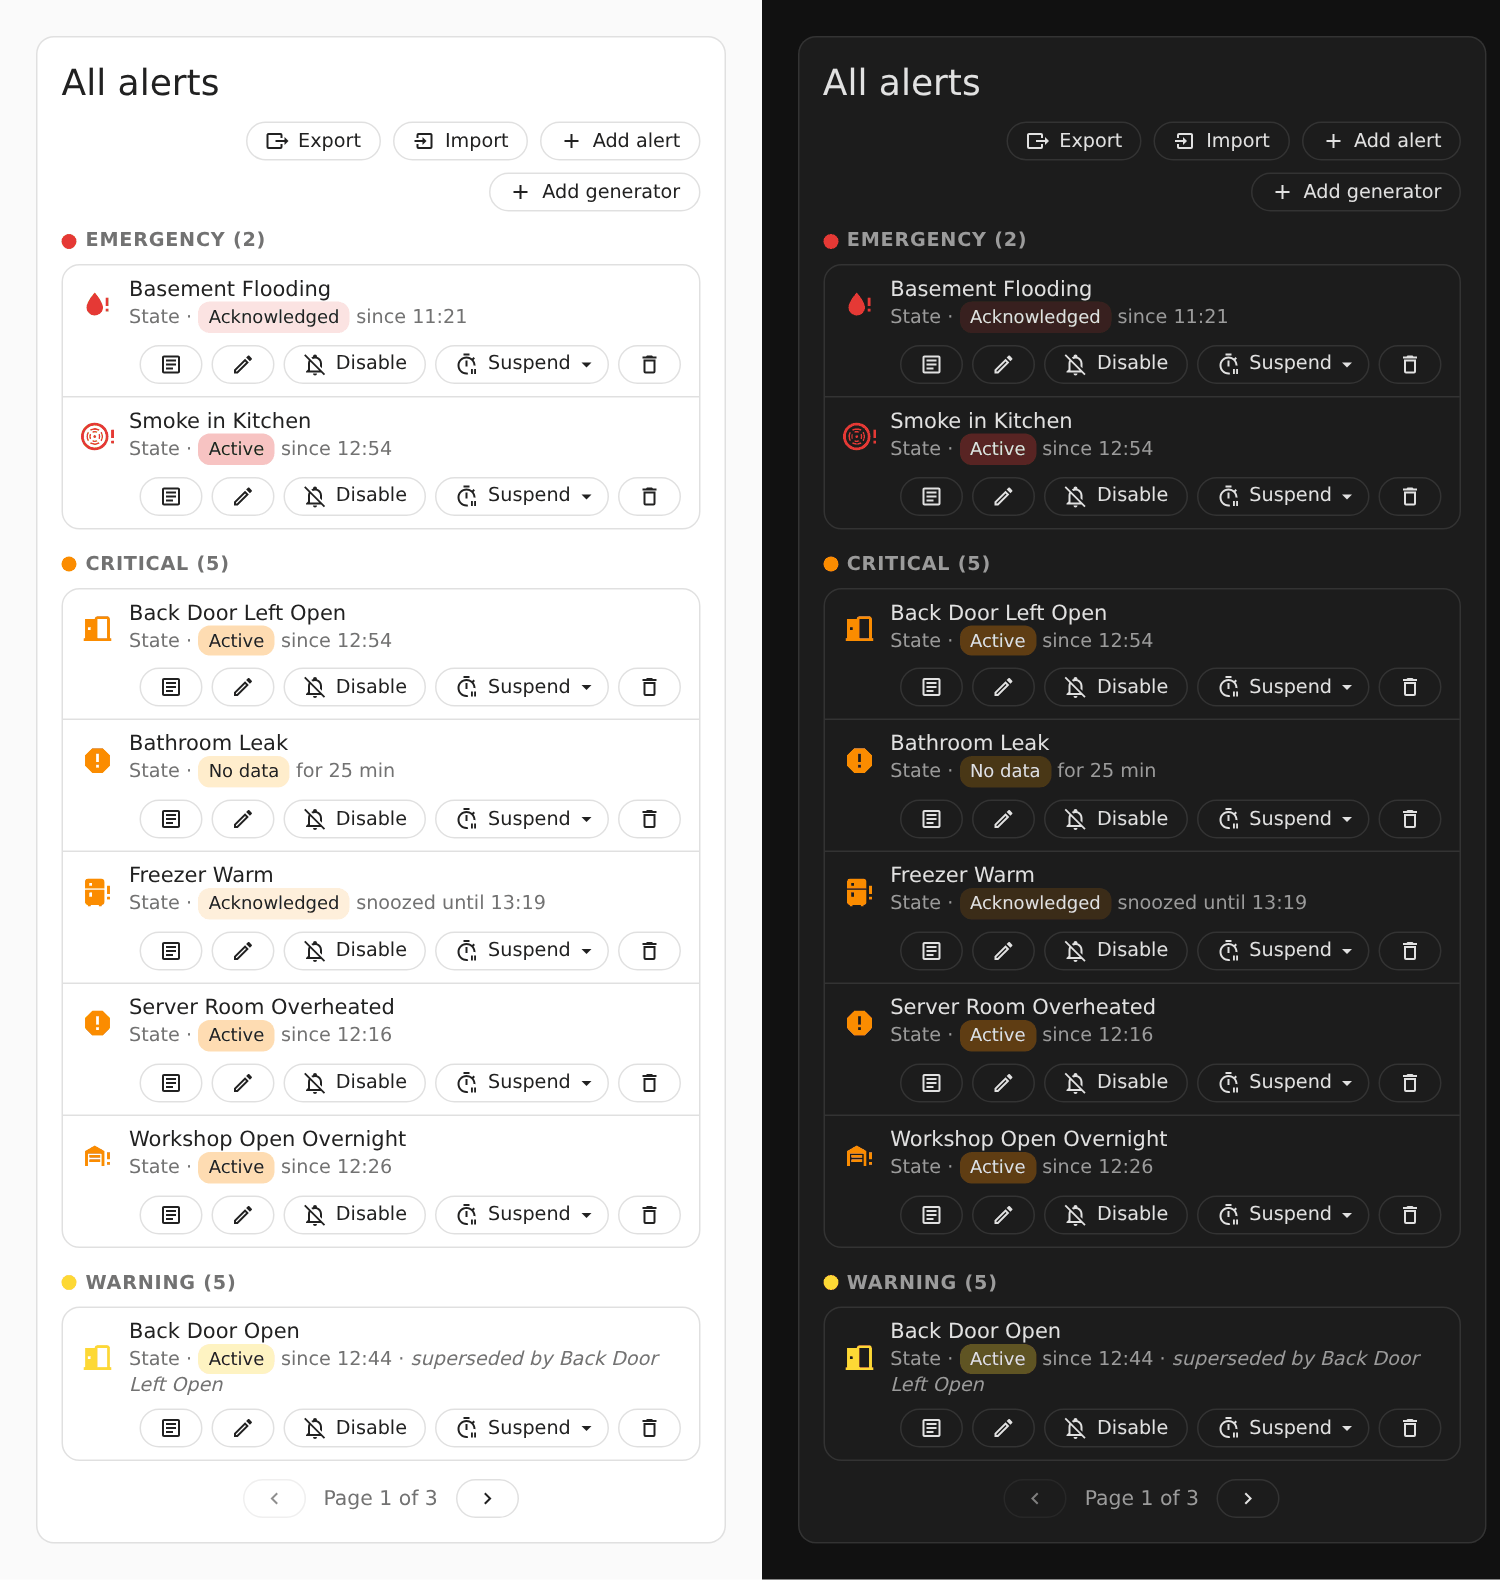
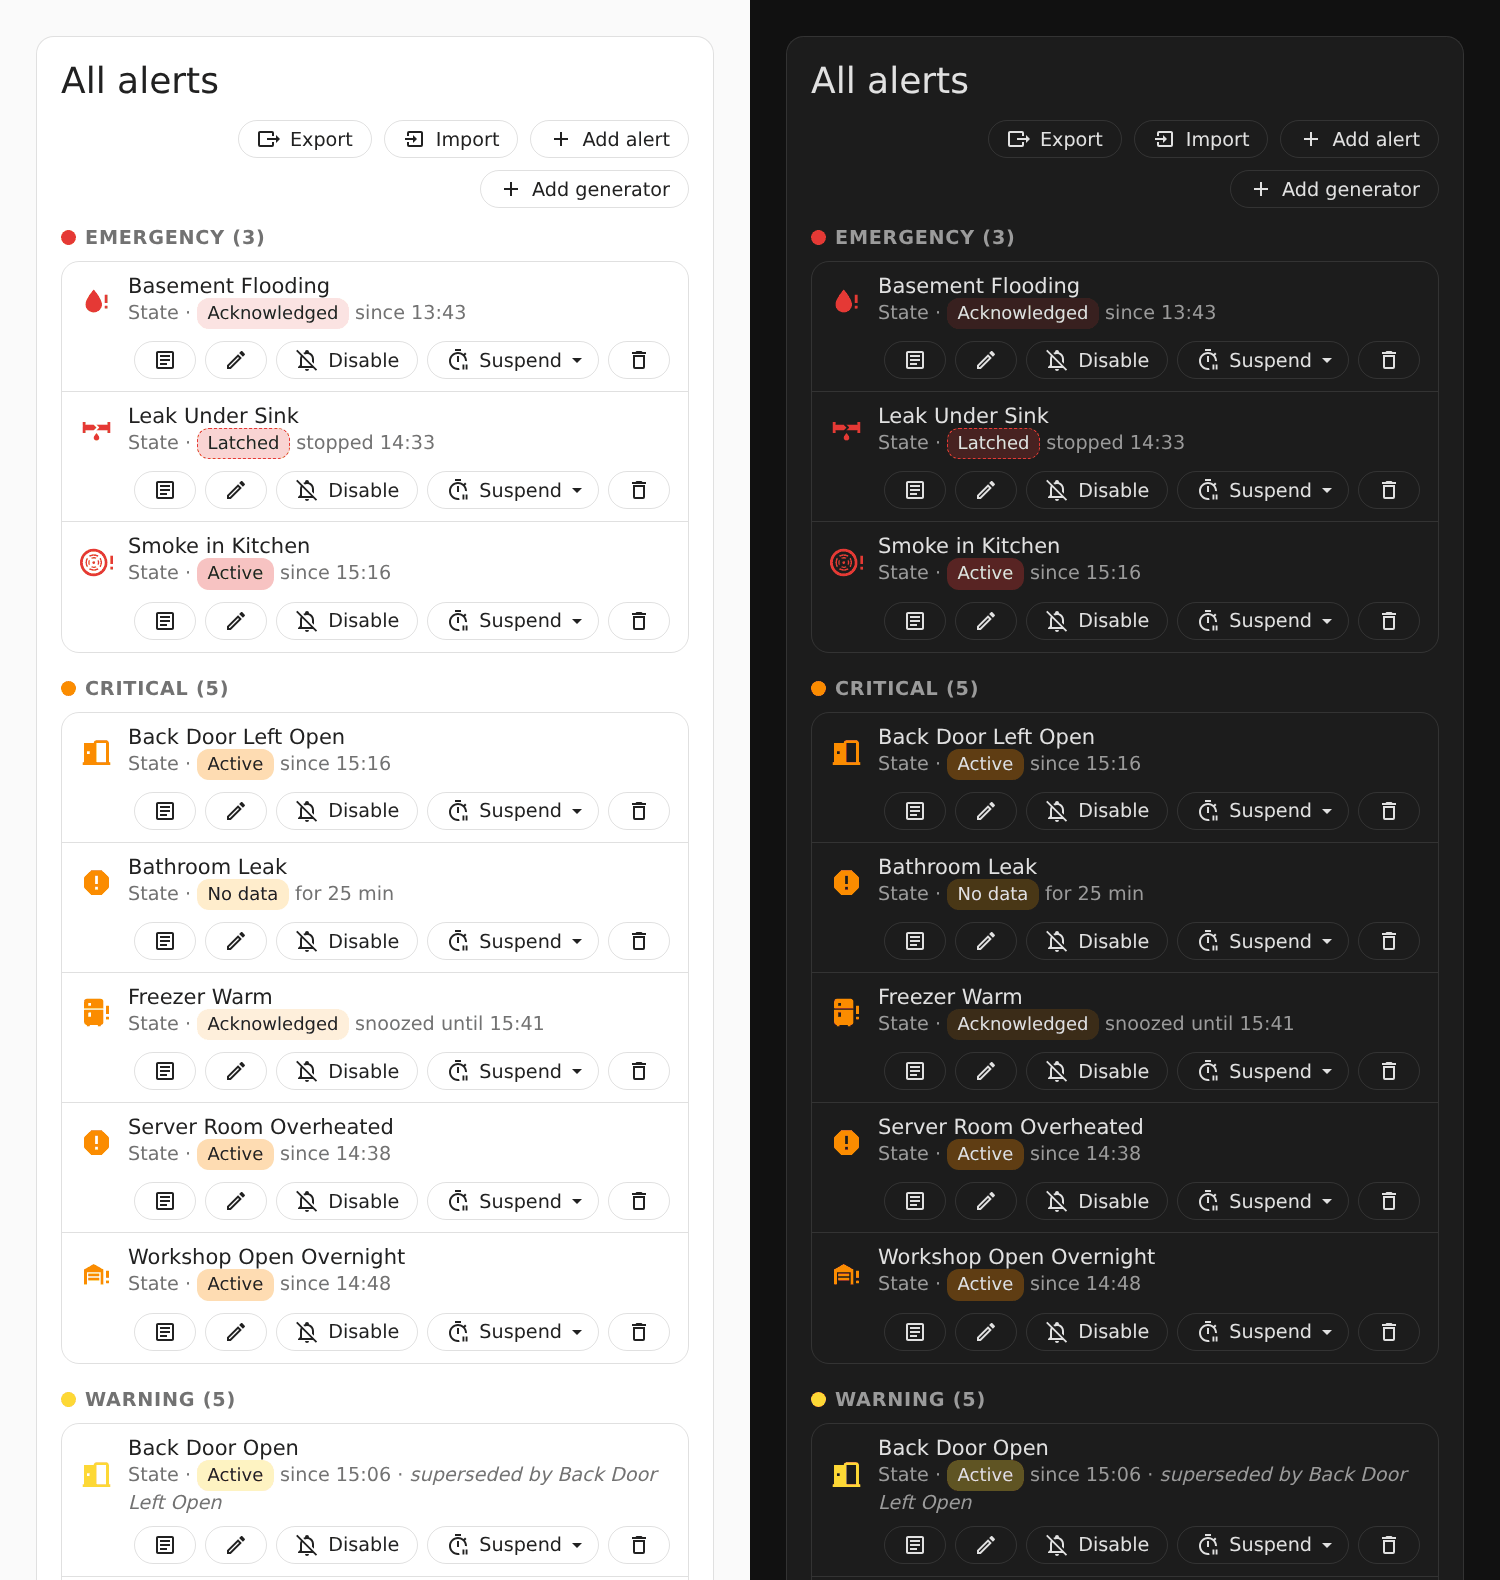
README: drop the status block; screenshots with a latched alert
The phase plan is complete, so the status block goes; a line in the
introduction keeps the pointer to the spec. The preview's latched alert is
an Emergency, so it shows in the hero; the screenshots are regenerated.

diff --git a/frontend/dev/preview.ts b/frontend/dev/preview.ts
@@ -172,10 +172,10 @@ const ALERTS: HassEntity[] = [
     snoozed_until: ago(-23),
   }),
   // Latched (spec §10): fired three times overnight, unacknowledged.
-  alert("leak_sink", "Leak Under Sink", "critical", "latched", {
-    icon: "mdi:water-alert",
+  alert("leak_sink", "Leak Under Sink", "emergency", "latched", {
+    icon: "mdi:pipe-leak",
     latching: true,
-    message: "The sink leak sensor is wet.",
+    message: "Water detected under the kitchen sink.",
     fire_count: 3,
     last_fired: ago(70),
     last_ended: ago(45),

diff --git a/README.md b/README.md
@@ -3,17 +3,7 @@
 A replacement alert system for Home Assistant, intended to take over from the
 built-in `alert` integration, which is
 [effectively deprecated](https://community.home-assistant.io/t/wth-are-alerts-not-configurable-through-the-ui/804195).
-
-> **Status:** 1.0.0, the first stable release. Every alert kind works: manual
-> (optionally ending by itself), state, on/off, threshold, template, alert state,
-> trigger, and bus event alerts. The card shows, acknowledges, and snoozes them,
-> they send on, reminder, and done notifications (with throttling, quiet hours,
-> and buttons), the admin card lists, exports, imports, edits, and suspends them, alerts can supersede
-> each other, generators make alerts for every matching entity, summary sensors
-> and the Activity card make them easy to build on, and an agent skill lets AI
-> agents set them up for you. Voice control and more card features arrive in 1.x
-> releases; see the [phase plan](docs/SPEC.md#20-phase-plan).
-> The design is in [docs/SPEC.md](docs/SPEC.md).
+The design is in [docs/SPEC.md](docs/SPEC.md).
 
 ![The Alert Redux card, in Home Assistant's default light and dark themes](assets/screenshots/hero.png)
 
